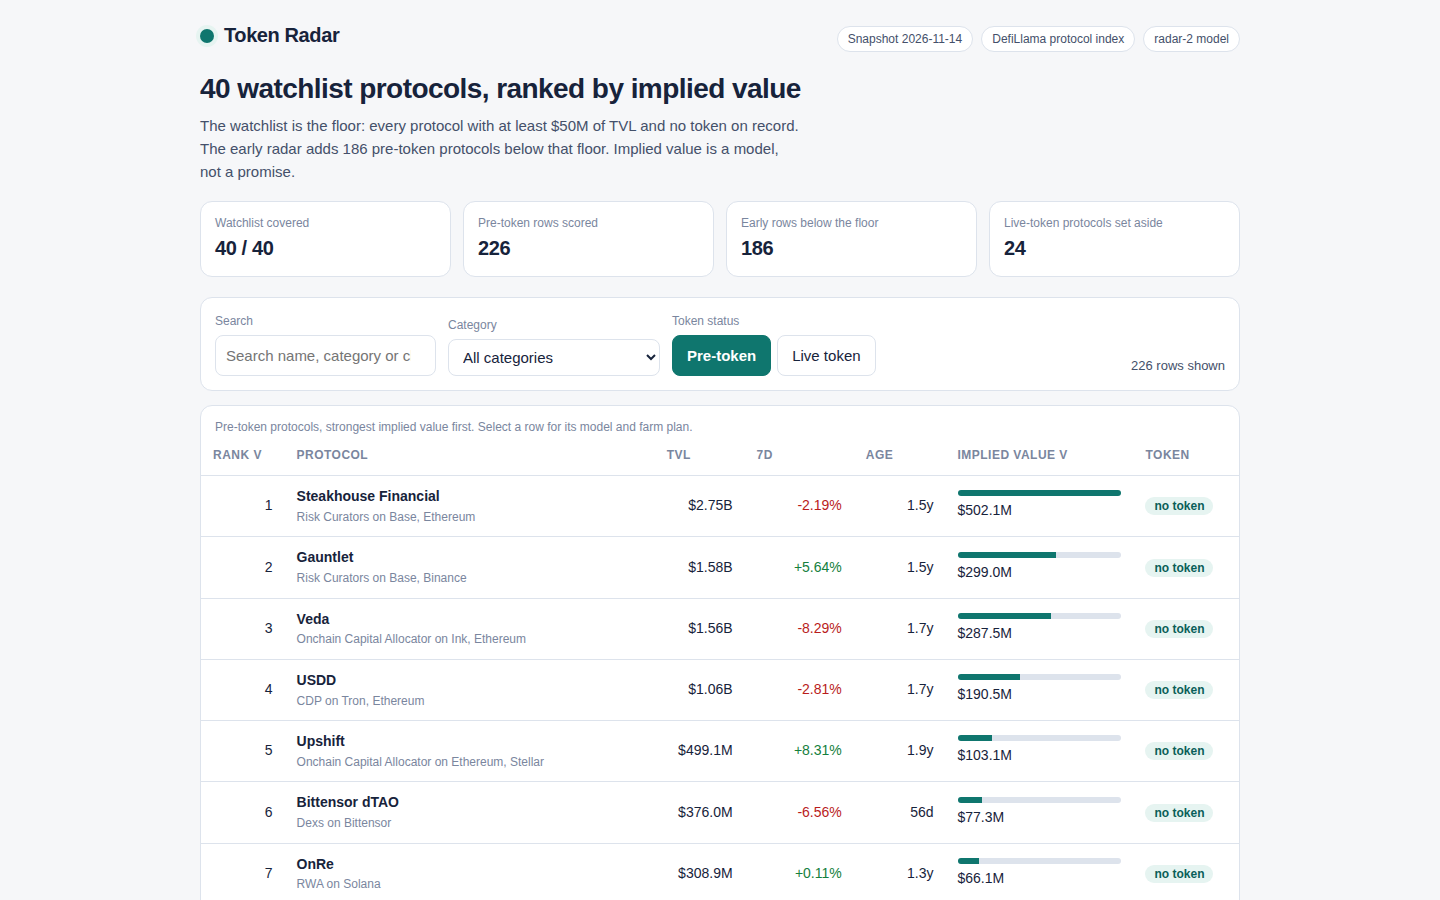
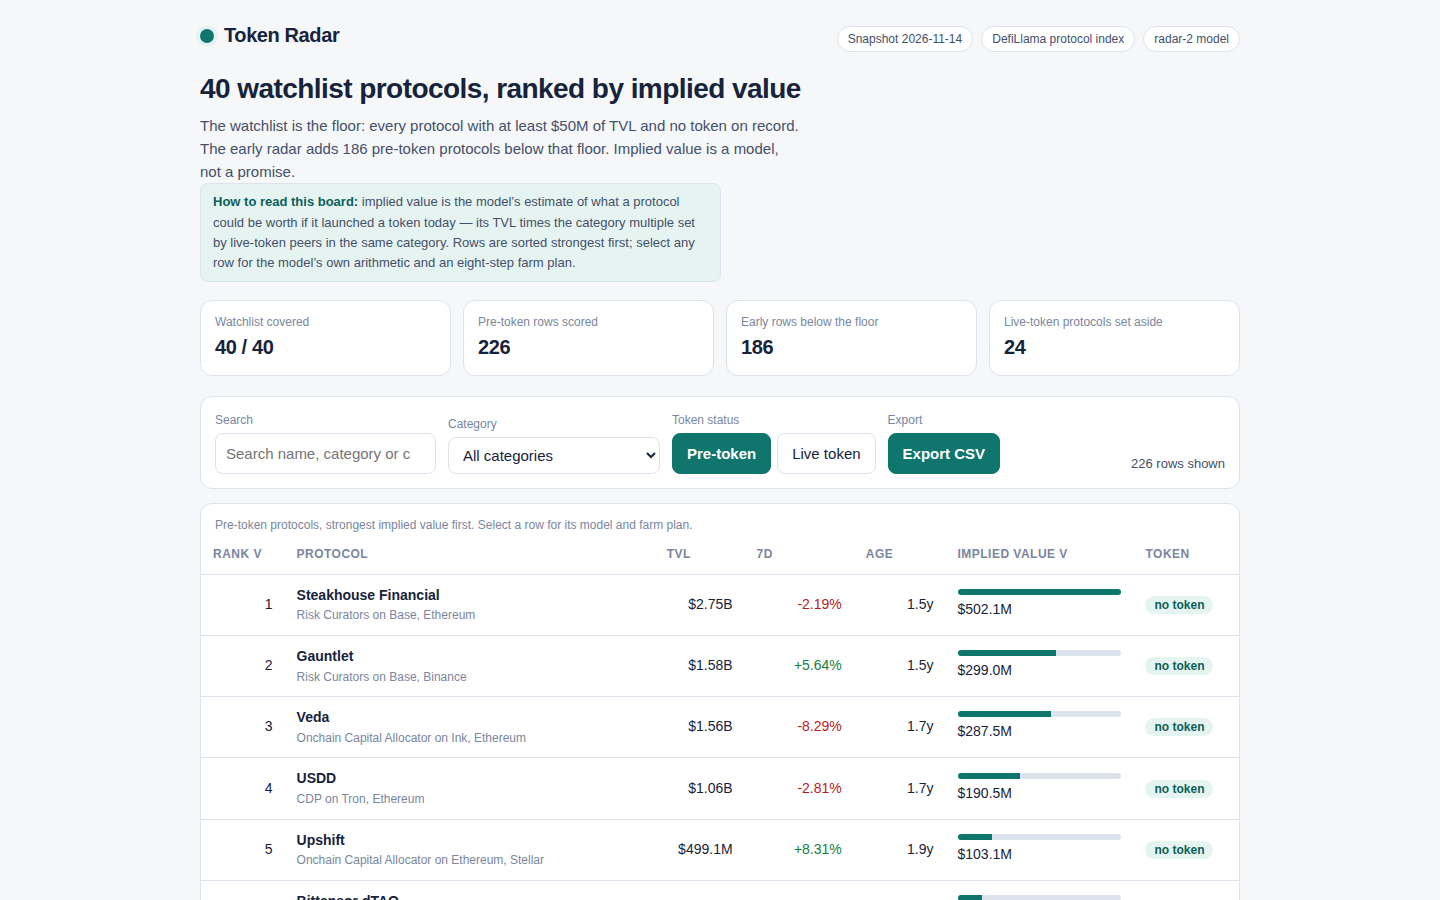
Dashboard: CSV export, copy farm plan, reading guide

diff --git a/dashboard/app.js b/dashboard/app.js
@@ -125,6 +125,38 @@
     ].map(stepText);
   }
 
+  // The farm plan as plain text: one numbered line per step, so it pastes cleanly
+  // into a notes app or a chat. The steps are the same strings the drawer shows.
+  function farmPlanText(row, steps) {
+    var lines = ['Farm plan for ' + row.name + ' (rank ' + row.rank + ' of ' + DATA.board_size + ', implied value ' + fmtUsd(row.implied_value_usd) + ')'];
+    steps.forEach(function (s, i) { lines.push((i + 1) + '. ' + s); });
+    return lines.join('\n') + '\n';
+  }
+  function copyText(text, button) {
+    function done(ok) {
+      button.textContent = ok ? 'Copied' : 'Copy failed';
+      setTimeout(function () { button.textContent = 'Copy farm plan'; }, 2000);
+    }
+    if (navigator.clipboard && navigator.clipboard.writeText) {
+      navigator.clipboard.writeText(text).then(function () { done(true); }, function () { copyFallback(text, done); });
+    } else {
+      copyFallback(text, done);
+    }
+  }
+  function copyFallback(text, done) {
+    var area = document.createElement('textarea');
+    area.value = text;
+    area.setAttribute('readonly', '');
+    area.style.position = 'fixed';
+    area.style.opacity = '0';
+    document.body.appendChild(area);
+    area.select();
+    var ok = false;
+    try { ok = document.execCommand('copy'); } catch (e) { ok = false; }
+    document.body.removeChild(area);
+    done(ok);
+  }
+
   function readHash() {
     var hash = window.location.hash.replace(/^#/, '');
     if (!hash) return;
@@ -167,6 +199,49 @@
     });
   }
 
+  // The export is the board the visitor is looking at: same filter, same sort.
+  function visibleRows() { return sortedRows(rows()); }
+
+  function csvField(value) {
+    var s = value === null || value === undefined ? '' : String(value);
+    if (/[",\n\r]/.test(s)) return '"' + s.replace(/"/g, '""') + '"';
+    return s;
+  }
+  function boardCsv(list) {
+    var lines = ['slug,name,rank,implied_value_usd,category,farm_steps'];
+    list.forEach(function (r) {
+      lines.push([
+        csvField(r.slug),
+        csvField(r.name),
+        csvField(r.rank),
+        csvField(r.implied_value_usd),
+        csvField(r.category || 'Other'),
+        csvField(farmSteps(r).length)
+      ].join(','));
+    });
+    return lines.join('\r\n') + '\r\n';
+  }
+  function downloadText(filename, text, type) {
+    var blob = new Blob([text], { type: type || 'text/plain;charset=utf-8' });
+    var url = URL.createObjectURL(blob);
+    var a = document.createElement('a');
+    a.href = url;
+    a.download = filename;
+    document.body.appendChild(a);
+    a.click();
+    document.body.removeChild(a);
+    setTimeout(function () { URL.revokeObjectURL(url); }, 1000);
+  }
+  function exportCsv(button) {
+    if (state.tab !== 'pre-token') return;
+    var list = visibleRows();
+    if (list.length === 0) return;
+    downloadText('token-radar-board.csv', boardCsv(list), 'text/csv;charset=utf-8');
+    var label = button.textContent;
+    button.textContent = 'Exported ' + list.length + ' rows';
+    setTimeout(function () { button.textContent = label; }, 2000);
+  }
+
   function header() {
     return el('header', { class: 'top' },
       el('div', { class: 'brand' }, el('span', { class: 'mark' }), el('span', { class: 'brand-name', text: 'Token Radar' })),
@@ -182,7 +257,11 @@
     return el('section', { class: 'lede' },
       el('div', null,
         el('h1', { text: DATA.watchlist_size + ' watchlist protocols, ranked by implied value' }),
-        el('p', { text: 'The watchlist is the floor: every protocol with at least $' + Math.round(DATA.floor_usd / 1e6) + 'M of TVL and no token on record. The early radar adds ' + DATA.early_size + ' pre-token protocols below that floor. Implied value is a model, not a promise.' })
+        el('p', { text: 'The watchlist is the floor: every protocol with at least $' + Math.round(DATA.floor_usd / 1e6) + 'M of TVL and no token on record. The early radar adds ' + DATA.early_size + ' pre-token protocols below that floor. Implied value is a model, not a promise.' }),
+        el('p', { class: 'reading-guide' },
+          el('b', { text: 'How to read this board: ' }),
+          'implied value is the model\u2019s estimate of what a protocol could be worth if it launched a token today \u2014 its TVL times the category multiple set by live-token peers in the same category. Rows are sorted strongest first; select any row for the model\u2019s own arithmetic and an eight-step farm plan.'
+        )
       ),
       el('div', { class: 'facts' },
         el('div', { class: 'fact' }, el('span', { text: 'Watchlist covered' }), el('b', { text: DATA.watchlist_size + ' / ' + DATA.watchlist_size })),
@@ -204,10 +283,12 @@
     select.addEventListener('change', function () { state.category = select.value; writeHash(); render(); });
     var pre = el('button', { type: 'button', 'aria-pressed': state.tab === 'pre-token' ? 'true' : 'false', text: 'Pre-token', onclick: function () { state.tab = 'pre-token'; render(); } });
     var live = el('button', { type: 'button', 'aria-pressed': state.tab === 'live' ? 'true' : 'false', text: 'Live token', onclick: function () { state.tab = 'live'; render(); } });
+    var exportBtn = el('button', { type: 'button', class: 'button primary', text: 'Export CSV', title: state.tab === 'pre-token' ? 'Download the rows shown below as CSV' : 'Switch to the Pre-token tab to export the board', disabled: state.tab === 'pre-token' ? null : 'disabled', onclick: function () { exportCsv(exportBtn); } });
     return el('div', { class: 'controls' },
       el('div', { class: 'field' }, el('label', { for: 'q', text: 'Search' }), search),
       el('div', { class: 'field' }, el('label', { for: 'category', text: 'Category' }), select),
       el('div', { class: 'field' }, el('span', { class: 'sub', text: 'Token status' }), el('div', { class: 'tabs' }, pre, live)),
+      el('div', { class: 'field' }, el('span', { class: 'sub', text: 'Export' }), exportBtn),
       el('span', { class: 'count', text: state.tab === 'pre-token' ? rows().length + ' rows shown' : DATA.live.length + ' live-token protocols' })
     );
   }
@@ -222,7 +303,7 @@
   }
 
   function boardTable() {
-    var list = sortedRows(rows());
+    var list = visibleRows();
     if (list.length === 0) {
       return el('div', { class: 'panel' }, el('div', { class: 'empty' },
         el('h2', { text: 'No protocol matches that filter' }),
@@ -354,8 +435,12 @@
         ? 'No live-token protocol in the ' + (row.category || 'Other') + ' category carries a market cap in this snapshot, so the category multiple falls back to the global median.'
         : 'Live ' + (row.category || 'Other') + ' tokens in this snapshot trade at a median market cap of ' + fmtUsd(row.category_live_median_mcap) + '; this row\u2019s implied value is the model\u2019s claim against that peer set.' })
     ));
+    var copyBtn = el('button', { class: 'button copy-btn', type: 'button', text: 'Copy farm plan', onclick: function () { copyText(farmPlanText(row, steps), copyBtn); } });
     dialog.appendChild(el('section', { class: 'detail-section' },
-      el('h3', { text: 'Farm plan' }),
+      el('div', { class: 'section-head' },
+        el('h3', { text: 'Farm plan' }),
+        copyBtn
+      ),
       el('ol', { class: 'steps' }, steps.map(function (s) {
         var at = s.indexOf(' Cost: ');
         var action = at >= 0 ? s.slice(0, at) : s;

diff --git a/dashboard/app.css b/dashboard/app.css
@@ -115,6 +115,16 @@ td.num { text-align: right; font-variant-numeric: tabular-nums; white-space: now
 .steps li b { font-weight: 600; }
 .steps .cost { display: block; font-size: 13px; color: var(--ink-soft); }
 .note { font-size: 13px; color: var(--ink-soft); }
+.reading-guide {
+  margin-top: 10px; font-size: 13px; color: var(--ink-soft);
+  background: var(--accent-soft); border: 1px solid var(--line);
+  border-radius: 8px; padding: 8px 12px;
+}
+.reading-guide b { color: var(--accent-ink); }
+.button:disabled { opacity: .45; cursor: not-allowed; }
+.section-head { display: flex; justify-content: space-between; align-items: center; gap: 12px; margin-bottom: 10px; }
+.section-head h3 { margin: 0; }
+.copy-btn { font-size: 13px; padding: 6px 10px; white-space: nowrap; }
 @media (max-width: 720px) {
   .facts { grid-template-columns: repeat(2, 1fr); }
   .lede h1 { font-size: 22px; }
